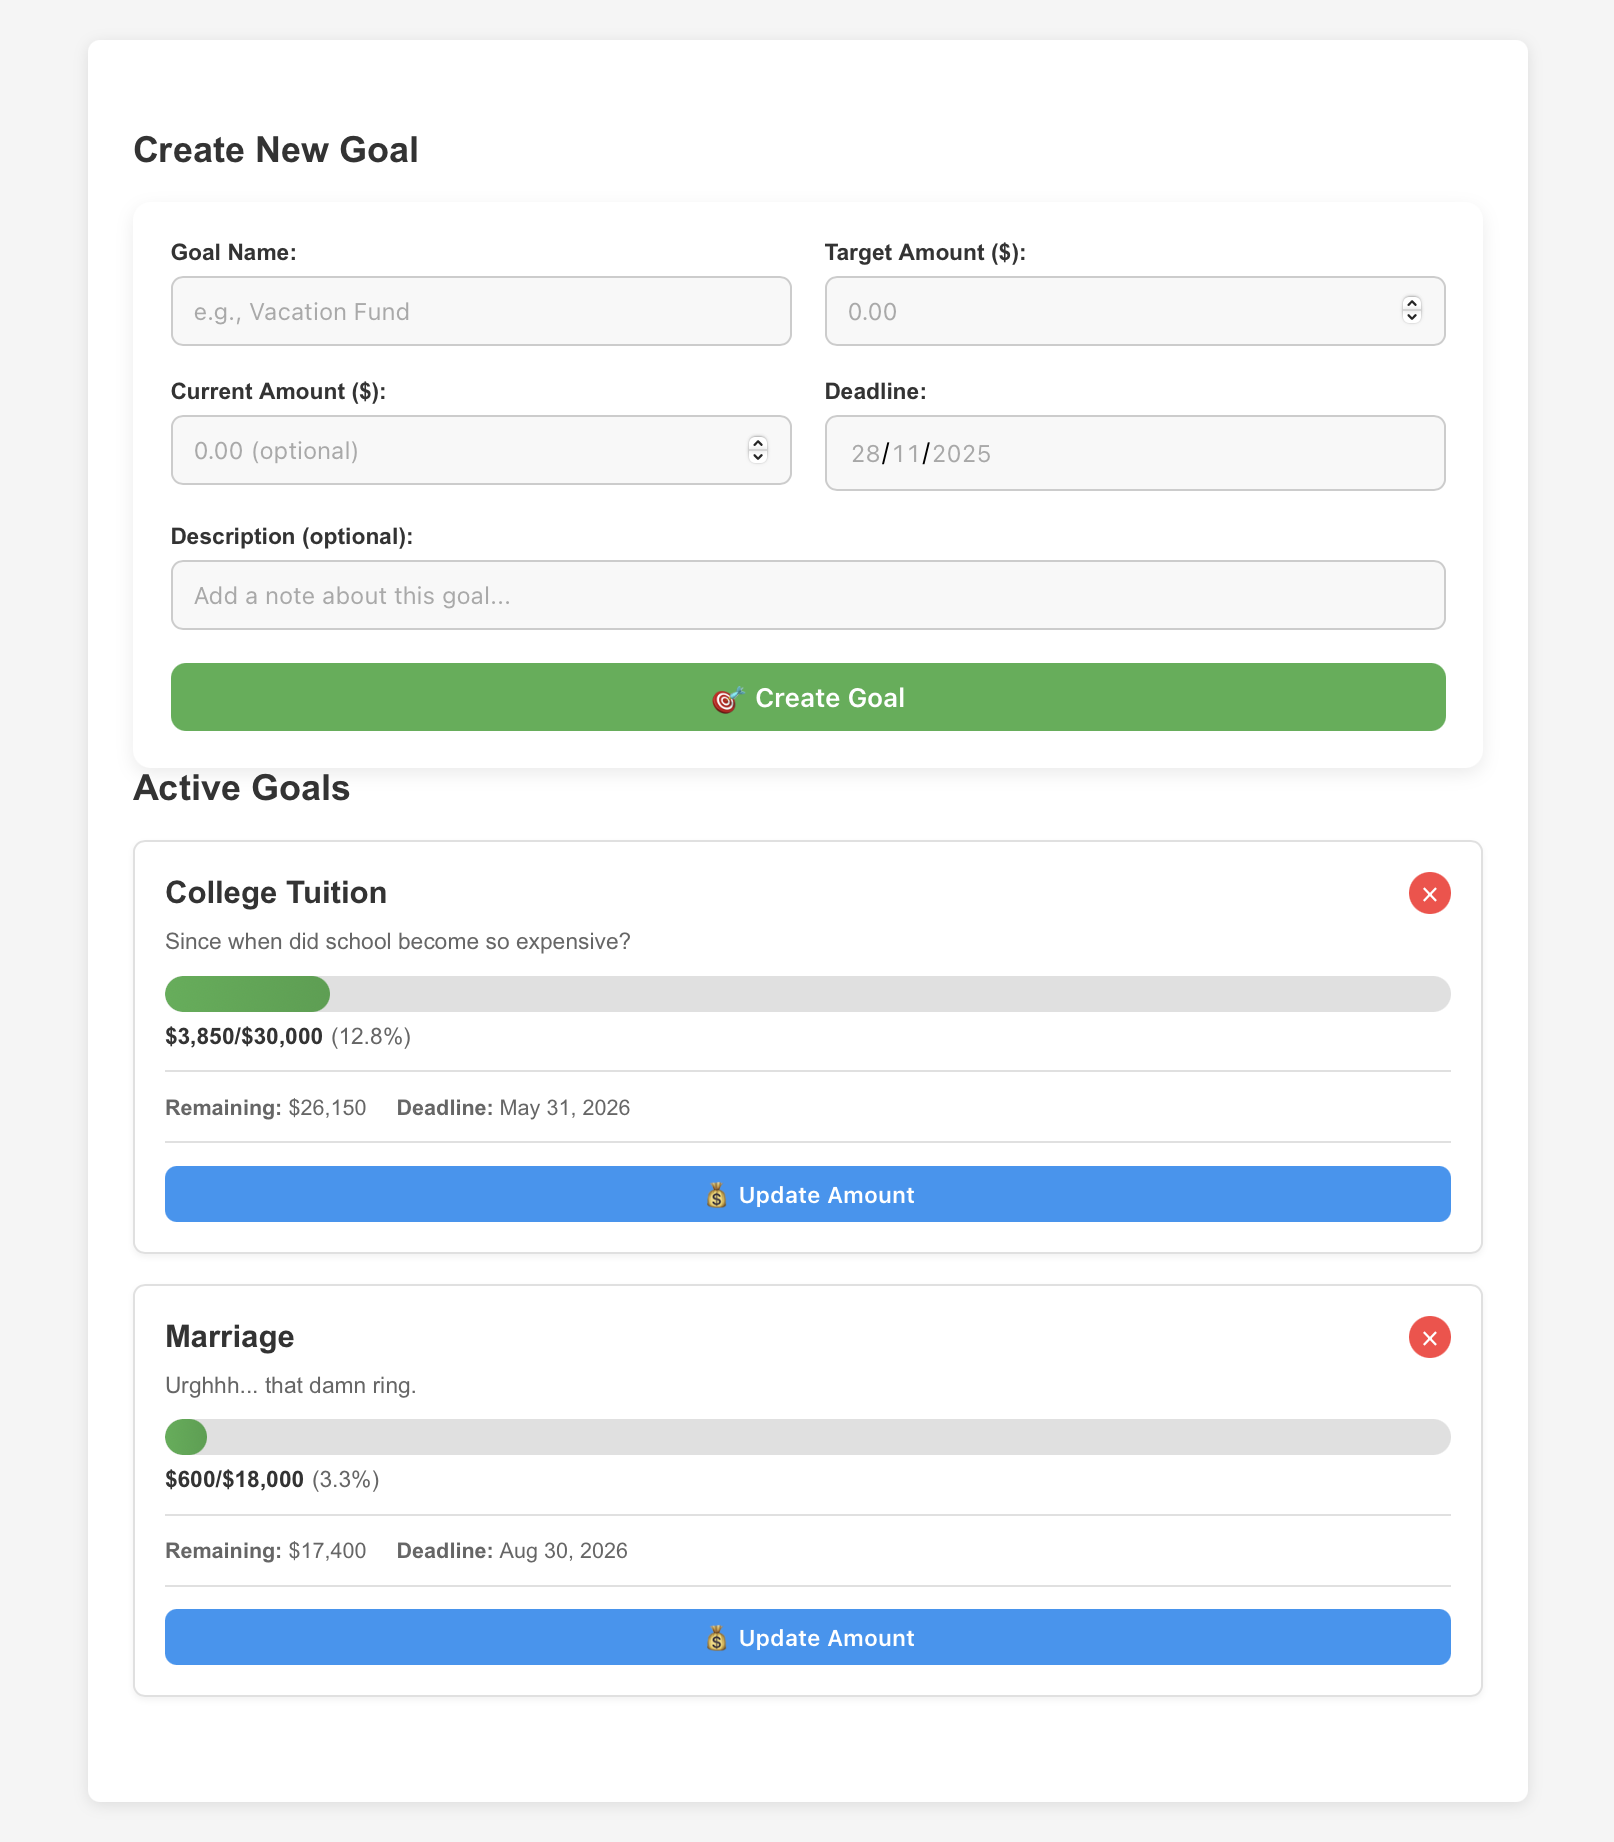
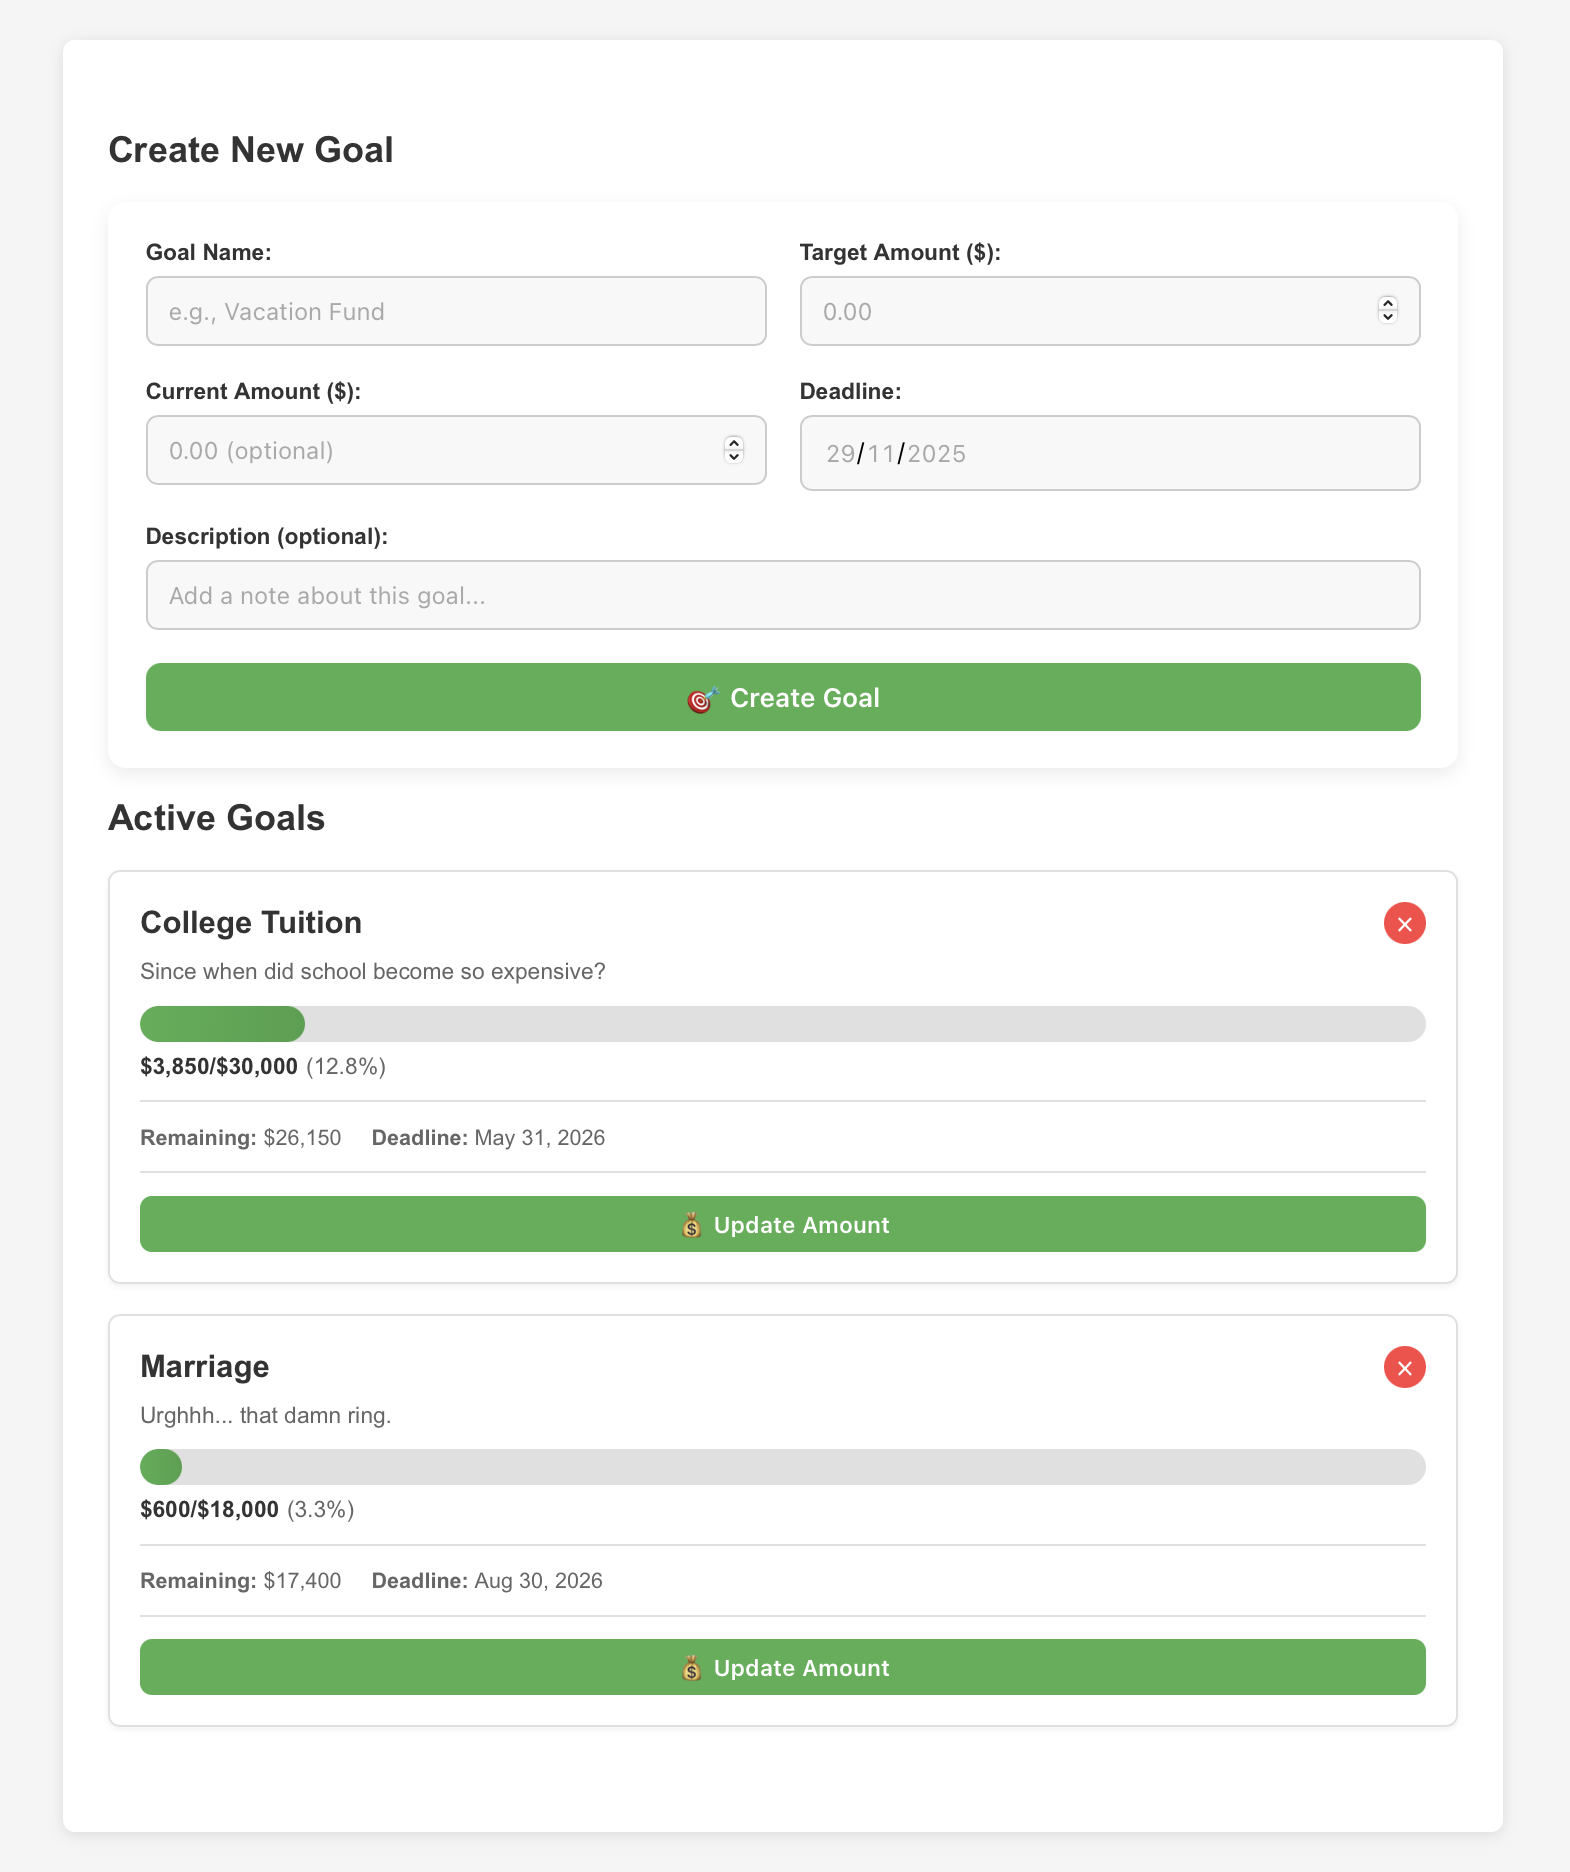
fix: remove some styling from signup pages + color change for btn in goals

diff --git a/src/components/SignupForm/SignupForm.jsx b/src/components/SignupForm/SignupForm.jsx
@@ -10,14 +10,14 @@ export default function SignUpForm() {
     const [message, setMessage] = useState("");
 
     const validateEmail = (email) => {
-        // Simple regex for basic email validation
+        // check if the email contains @ and . between texts
         return /^\S+@\S+\.\S+$/.test(email);
     }
 
     const handleSignUp = (e) => {
         e.preventDefault();
 
-        // Basic validation
+        // ensure that none is missing
         if (!email || !username || !password) {
             setMessage("❌ Please fill in Email, Username, and Password!");
             return;
@@ -29,10 +29,10 @@ export default function SignUpForm() {
         }
 
         try {
-            // Load existing credentials from localStorage
+            // load existing credentials (users) from localStorage
             const existing = JSON.parse(localStorage.getItem("user_credentials")) || [];
 
-            // Check if username already exists (case-insensitive)
+            // check if username already exists (case-insensitive) (must be unique since we use it as KEYS)
             const duplicate = existing.find(
                 user => user.username.toLowerCase() === username.toLowerCase()
             );
@@ -42,7 +42,7 @@ export default function SignUpForm() {
                 return;
             }
 
-            // Create new user object
+            // create new user object
             const newUser = { 
                 email, 
                 username, 
@@ -50,12 +50,13 @@ export default function SignUpForm() {
                 registrationDate: new Date().toISOString()
              };
 
-            // Save updated array back to localStorage
+            // save updated array back to localStorage
             existing.push(newUser);
             localStorage.setItem("user_credentials", JSON.stringify(existing));
 
             setMessage("✅ Sign Up successful!");
-            // Clear form
+            
+            // clear form
             setEmail("");
             setUsername("");
             setPassword("");

diff --git a/src/components/SignupForm/SignupForm.css b/src/components/SignupForm/SignupForm.css
@@ -1,4 +1,4 @@
-/* --- AUTH FORM --- */
+/* form styling */
 .grid-form {
   display: grid;
   grid-template-columns: 1fr;
@@ -10,37 +10,8 @@
   flex-direction: column;
 }
 
-.form-item label {
-  font-size: 0.95em;
-  font-weight: 600;
-  margin-bottom: 8px;
-  color: #333;
-}
 
-.form-item input {
-  padding: 12px 14px;
-  border: 1px solid #ccc;
-  border-radius: 8px;
-  font-size: 1em;
-  background-color: #f8f8f8;
-  outline: none;
-  transition: 0.25s ease;
-  width: 100%;
-  box-sizing: border-box;
-}
-
-.form-item input:focus {
-  border-color: #4CAF50;
-  background-color: #fff;
-  box-shadow: 0 0 0 3px rgba(76, 175, 80, 0.2);
-}
-
-/* --- FULL-WIDTH NOTE FIELD --- */
-.full-row {
-  grid-column: span 1;
-}
-
-/* --- SUBMIT BUTTON --- */
+/* button stylings */
 .submit-btn {
   grid-column: span 1;
   padding: 12px 18px;
@@ -63,26 +34,13 @@
   transform: translateY(0);
 }
 
-/* --- MESSAGE TEXT --- */
-.message {
-  margin-top: 10px;
-  margin-bottom: 15px;
-  padding: 12px;
-  border-radius: 8px;
-  background: #eef7ee;
-  border-left: 5px solid #4CAF50;
-  font-size: 0.95em;
-  color: #2f6d2f;
-  font-weight: 500;
-}
-
-/* REVEAL BUTTON */
+/* toggle reveal button */
 .password-wrapper {
   position: relative;
 }
 
 .password-wrapper input {
-  padding-right: 40px; /* space for the eye button */
+  padding-right: 40px;
 }
 
 .eye-btn {
@@ -96,33 +54,7 @@
   font-size: 18px;
 }
 
-/* TEXT BUTTON */
-.extra-links {
-  display: flex;
-  flex-direction: column;
-  justify-content: center;
-  gap: 6px;
-  align-items: center;
-}
-
-.text-link {
-  width: 150px;
-  background: none;
-  border: none;
-  padding: 0;
-  margin: 0;
-  color: #007bff;
-  cursor: pointer;
-  font-size: 14px;
-  box-shadow: none;
-  outline: none;
-}
-
-.text-link:hover {
-  text-decoration: underline;
-}
-
-/* ========= RESPONSIVE ========= */
+/* responsiveness */
 
 @media (min-width: 769px) {
   .grid-form {

diff --git a/src/components/AddGoal/AddGoal.css b/src/components/AddGoal/AddGoal.css
@@ -24,7 +24,7 @@
 }
 
 .goals-section h2 {
-  margin-top: 0;
+  margin-top: 20px;
   margin-bottom: 20px;
   color: #333;
   font-size: 1.5em;
@@ -275,7 +275,7 @@
 .update-amount-btn {
   width: 100%;
   padding: 10px 16px;
-  background: #2196F3;
+  background: #4CAF50;
   color: white;
   border: none;
   border-radius: 8px;
@@ -286,7 +286,7 @@
 }
 
 .update-amount-btn:hover {
-  background: #1976D2;
+  background: #45a049;
   transform: translateY(-1px);
 }
 

diff --git a/src/pages/Signup/Signup.jsx b/src/pages/Signup/Signup.jsx
@@ -8,7 +8,7 @@ export default function SignUp() {
             <h1>Hello!</h1>
             <p className="description">Enter Your Credentials, lad.</p>
 
-            {/* Call the component multiple times with different props */}
+            {/* our lovely components */}
             <SignUpForm />
         </div>
     );

diff --git a/src/pages/Signup/Signup.css b/src/pages/Signup/Signup.css
@@ -1,3 +1,5 @@
+/* make container more beautiful */
+
 .page-container {
   max-width: 400px;
   margin: 50px auto;
@@ -12,7 +14,7 @@
   color: #333;
 }
 
-/* ========= RESPONSIVE AUTH CONTAINER ========= */
+/* responsive container */
 
 @media (max-width: 600px) {
   .page-container {
